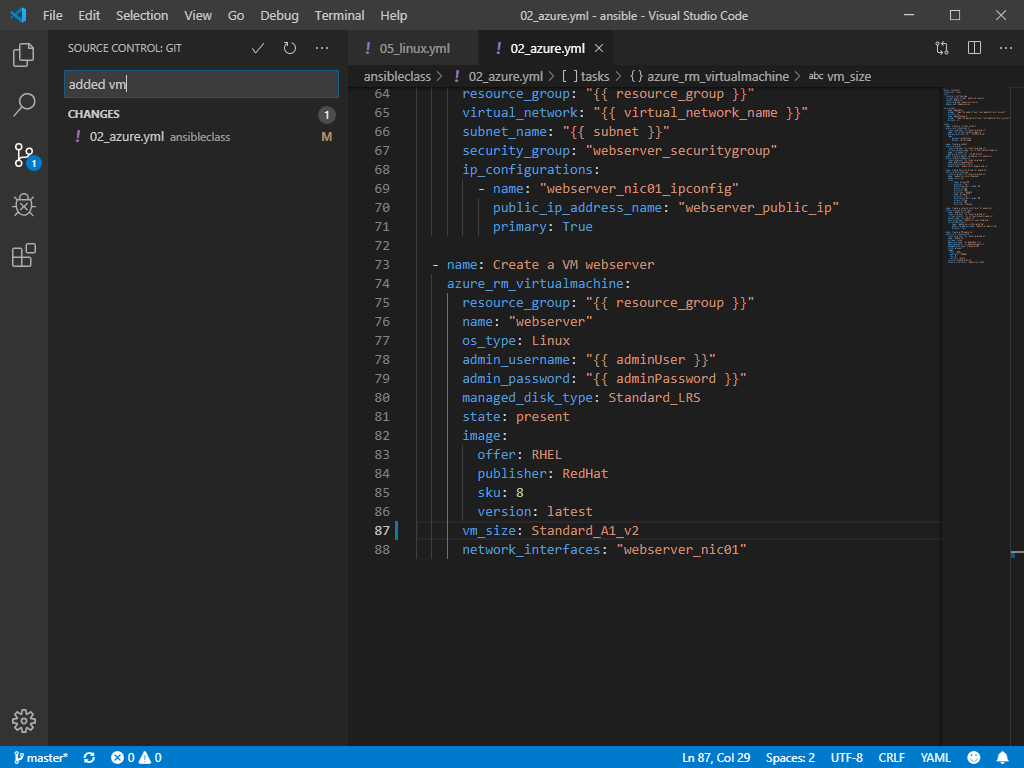
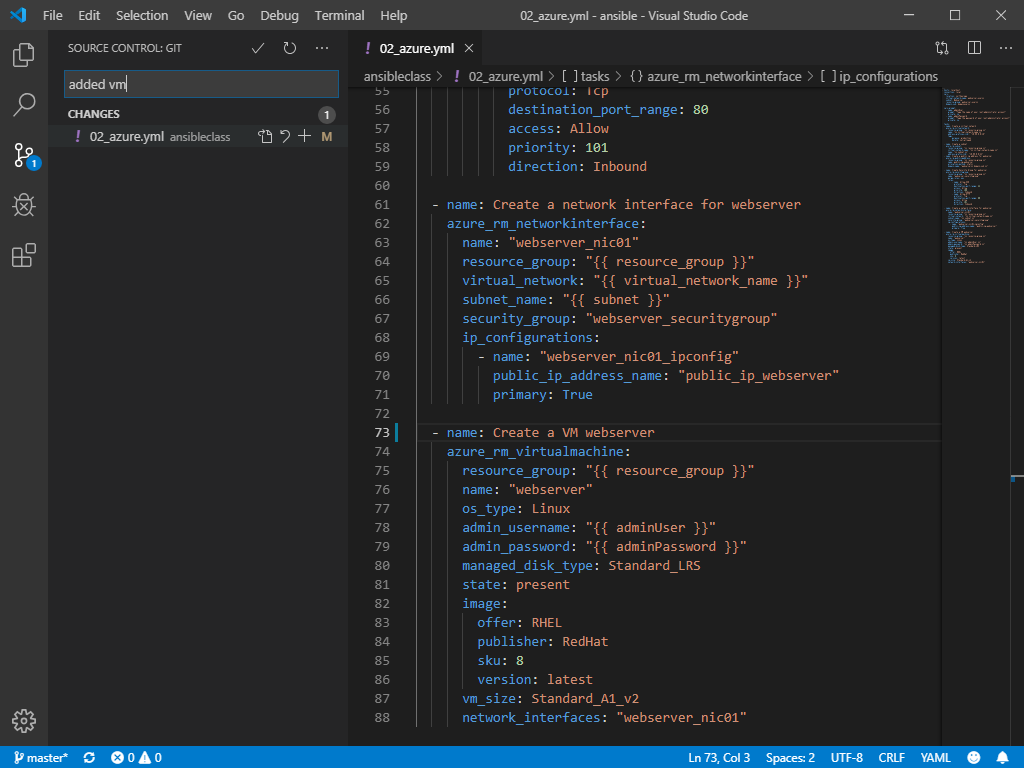
new pics

diff --git a/lab04/lab4.md b/lab04/lab4.md
@@ -285,7 +285,7 @@ In VSCode add the next sections to the 02_azure.yml playbook
       security_group: "webserver_securitygroup"
       ip_configurations:
         - name: "webserver_nic01_ipconfig"
-          public_ip_address_name: "webserver_public_ip"
+          public_ip_address_name: "public_ip_webserver"
           primary: True
 ```
 
@@ -422,3 +422,41 @@ ansible-playbook 02_azure.yml
 ```
 
 ![Alt text](pics/019_azure_get_ip_run.png?raw=true "azure get ip playbook run")
+
+Install apache webserver, setup the static website, allow http trafic on the local firewall
+
+[Ansible Module dnf](https://docs.ansible.com/ansible/latest/modules/dnf_module.html)
+
+In VSCode add the next sections to the 02_azure.yml playbook
+
+```ansible
+- hosts: webserver
+  vars:
+  tasks:
+  - name: Install Apache
+    dnf:
+      name: httpd
+      state: latest
+```
+
+![Alt text](pics/018_azure_get_ip.png?raw=true "azure get ip playbook")
+
+Save and commit to Git
+
+Log on to server "ansible" using ssh
+
+Use git to get the new azure playbook
+
+Change url to your own repository
+
+__Type:__
+
+```bash
+
+git clone https://github.com/jesperberth/ansibleclass.git
+
+cd ansibleclass
+
+ansible-playbook 02_azure.yml
+
+```
